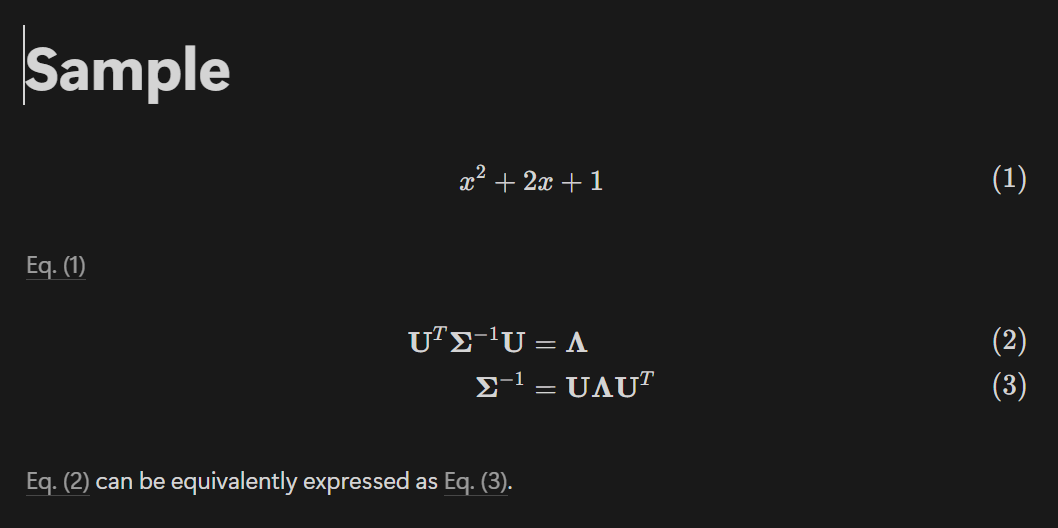
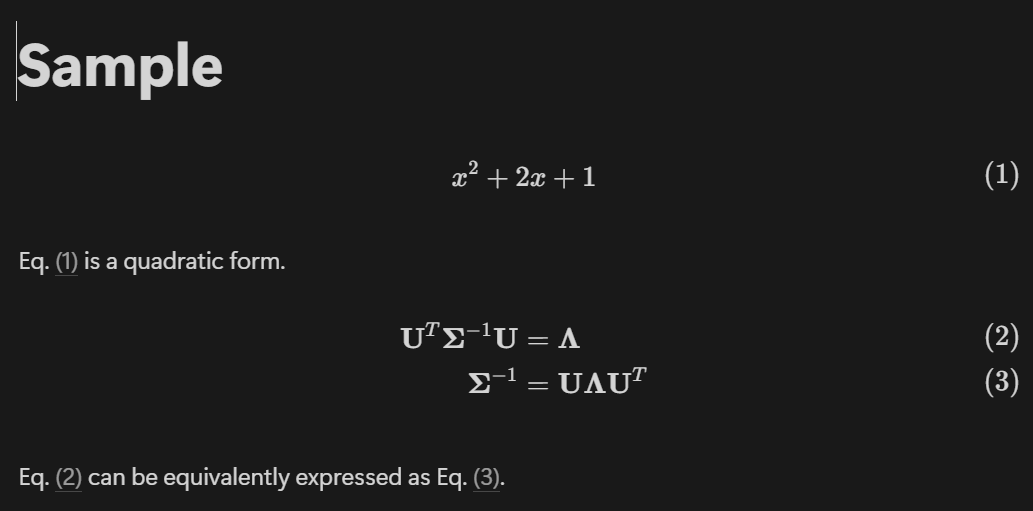
docs: change a .env parameter name. update README

diff --git a/src/index.ts b/src/index.ts
@@ -23,7 +23,7 @@ type BlockId = string;
 
 const NOTION_TOKEN = "NOTION_TOKEN";
 const PAGE_ID = "PAGE_ID";
-const MULTIDB_ID = "MULTIPLE_TAGS_DB_ID";
+const ALIGN_EQ_REFS_DB_ID = "ALIGN_EQ_REFS_DB_ID";
 
 const PARAGRAPH_LINK = "Paragraph Link";
 const INDEX = "Index";
@@ -34,7 +34,7 @@ const EQ_SUFFIX = "EQ_SUFFIX";
 (async () => {
   let EqPrefix = process.env[EQ_PREFIX];
   if (!EqPrefix) {
-    EqPrefix = "Eq. (";
+    EqPrefix = "(";
   }
   let EqSuffix = process.env[EQ_SUFFIX];
   if (!EqSuffix) {
@@ -48,9 +48,9 @@ const EQ_SUFFIX = "EQ_SUFFIX";
     auth: token,
   });
 
-  const multiDbId = process.env[MULTIDB_ID];
+  const multiDbId = process.env[ALIGN_EQ_REFS_DB_ID];
   if (!multiDbId) {
-    throw Error(`token: ${MULTIDB_ID} is undefined.`);
+    throw Error(`token: ${ALIGN_EQ_REFS_DB_ID} is undefined.`);
   }
 
   const queried = await collectPaginatedAPI(client.databases.query, {

diff --git a/README.md b/README.md
@@ -2,45 +2,48 @@
 
 **An equation numbering tool for Notion.**
 
+- Automatically adds equation numbers to LaTeX blocks in Notion documents.
+- Automatically replaces equation references with corresponding numbers (like LaTex's `\eqref`).
+
 ## Getting Started
 
-### Prepare Notion environment
+### Prepare Your Notion Environment
 
-1. Get a integration token.
+1. Obtain a integration token.
 
-1. Prepare a target page and get the page id.
+1. Prepare the target Notion page and gets its Page ID.
 
-1. Prepare a Multiple-Tags database and get the database id. The database must has [validate properties](#properties-of-multiple-tags-database).
+1. Set up the [AlignEqRefs database](#aligneqrefs-database) and get its Database ID.
 
 ### Installation
 
-1. Install the package.
+1. Install the package:
 
    ```shell
    npm install @suzu-sys/notion-eq
    ```
 
-1. Create a `.env` file to the root directory, and write a token and IDs.
+1. Create a `.env` file and add the following:
 
    ```dotenv
    NOTION_TOKEN=*********************
    PAGE_ID=*********************
-   MULTIPLE_TAGS_DB_ID=*********************
+   ALIGN_EQ_REFS_DB_ID=*********************
    ```
 
 ### Usage
 
-#### 1. Equations
+#### 1. Add Equation Numbers
 
-If you want to put a equation number to a block equation, use `\tag{<\d*>}` where `<\d*>` must be replaced to `\d*`.
+Use `\tag{}` or `\tag{<digits>}` in your LaTeX block to mark equations for numbering. Any existing number will be replaced with the correct number automatically.
 
-- Single equation number
+- Single numbered equation:
 
   ```tex
   x^2 + 2x + 1 \tag{}
   ```
 
-- Multiple equation numbers
+- Multiple numbered equations:
 
   ```tex
   \begin{align}
@@ -49,19 +52,19 @@ If you want to put a equation number to a block equation, use `\tag{<\d*>}` wher
   \end{align}
   ```
 
-#### 2. Reference equations
+#### 2. Reference Equations
 
-In a text block, when you want to put a reference to the equation block, put the url of the equation block as a link.
+To reference a numbered equation, link to the equation block from a text block. The link title does not affect numbering.
 
 ![ref-single-tag](./readme_images/ref-single-tags.png)
 
-If you put a reference to the equation block with multiple equation numbers, register the text block in the Multiple-Tags Database.
+If the equation block contains multiple numbered equations, register the referencing text block in the AlignEqRefs database.
 
 ![ref-multiple-tag](./readme_images//ref-multiple-tags.png)
 
-![Multiple-Tags database](./readme_images/multiple-tags.png)
+![AlignEqRefs database](./readme_images/multiple-tags.png)
 
-#### 3. Execute the tool
+#### 3. Run the Tool
 
 ```shell
 notion-eq
@@ -72,30 +75,32 @@ notion-eq
 - After
   ![after](./readme_images/after.png)
 
-## Parameters of .env
+## .env Parameters
 
-| Parameter              | Description                                                                                                  |
-| ---------------------- | ------------------------------------------------------------------------------------------------------------ |
-| `NOTION_TOKEN`         | Integration token                                                                                            |
-| `PAGE_ID`              | The ID of the page.                                                                                          |
-| `MULTIPLE_TAGS_DB_ID`  | The ID of the database containing the block that references a equation block with multiple equation numbers. |
-| `EQ_PREFIX` (Optional) | Prefix of a equation number. Default: `EQ. (`                                                                |
-| `EQ_SUFFIX` (Optional) | Suffix of a equation number. Default: `)`                                                                    |
+| Parameter              | Description                                            |
+| ---------------------- | ------------------------------------------------------ |
+| `NOTION_TOKEN`         | Your Notion integration token                          |
+| `PAGE_ID`              | The ID of the Notion page to process.                  |
+| `ALIGN_EQ_REFS_DB_ID`  | The ID of the AlignEqRefs database.                    |
+| `EQ_PREFIX` (Optional) | Prefix of equation number in text blocks. Default: `(` |
+| `EQ_SUFFIX` (Optional) | Suffix of equation number in text blocks. Default: `)` |
 
-Page and database IDs is 32-character alphanumeric strings. They can be found at the end of a Notion page or database URL.
+> [!NOTE] > `EQ_PREFIX` and `EQ_SUFFIX` are only applied to equation numbers displayed in text blocks, not inside LaTeX blocks.
 
-| Type     | URL and ID part                                                                            |
-| -------- | ------------------------------------------------------------------------------------------ |
-| Page     | h<!---->ttps://w<!---->ww.notion.so/Sample-Page-`9a3f0c7d5b8e1f24c6d07b1e4f3a2d8c`?pvs=... |
-| Database | h<!---->ttps://w<!---->ww.notion.so/`0f9b3d7ca1e45f28bdc07e2f6a3c9d14`?v=...               |
+Page and database IDs are 32-character alphanumeric strings, found at the end of a Notion page or database URL.
 
-## Properties of the Multiple-Tags database
+| Type     | URL and ID part                                                                                     |
+| -------- | --------------------------------------------------------------------------------------------------- |
+| Page     | h<!---->ttps://w<!---->ww.notion.so/Sample-Page-<ins>9a3f0c7d5b8e1f24c6d07b1e4f3a2d8c</ins>?pvs=... |
+| Database | h<!---->ttps://w<!---->ww.notion.so/<ins>0f9b3d7ca1e45f28bdc07e2f6a3c9d14</ins>?v=...               |
 
-| Property         | Type  | Format                                                | Example Value                                                    |
-| ---------------- | ----- | ----------------------------------------------------- | ---------------------------------------------------------------- |
-| `Paragraph Link` | Title | Link to the text block                                | [Link to the block](https://github.com/SuzuSys/notion-eq#readme) |
-| `Index`          | Text  | List of the index of the equation number in the block | 1,0,1                                                            |
+## AlignEqRefs Database
 
-- Length of `record["Index"]`: The number of references to the equation block with multiple equation numbers.
-- Index of `record["Index"]`: The position of the references.
-- Value of `record["Index"]`: The position of equation numbers.
+The AlignEqRefs database is used to handle references to individual equations within a multi-equation block.
+
+| Property         | Type  | Format                                                                    | Example Value                                       |
+| ---------------- | ----- | ------------------------------------------------------------------------- | --------------------------------------------------- |
+| `Paragraph Link` | Title | Link to the referencing text block. Link title does not affect numbering. | [Link](https://github.com/SuzuSys/notion-eq#readme) |
+| `Index`          | Text  | Comma-separated list of `\tag{}` indices (0-based) in the equation block  | 1,0,1                                               |
+
+![AlignEqRefs database](./readme_images/multiple-tags.png)
